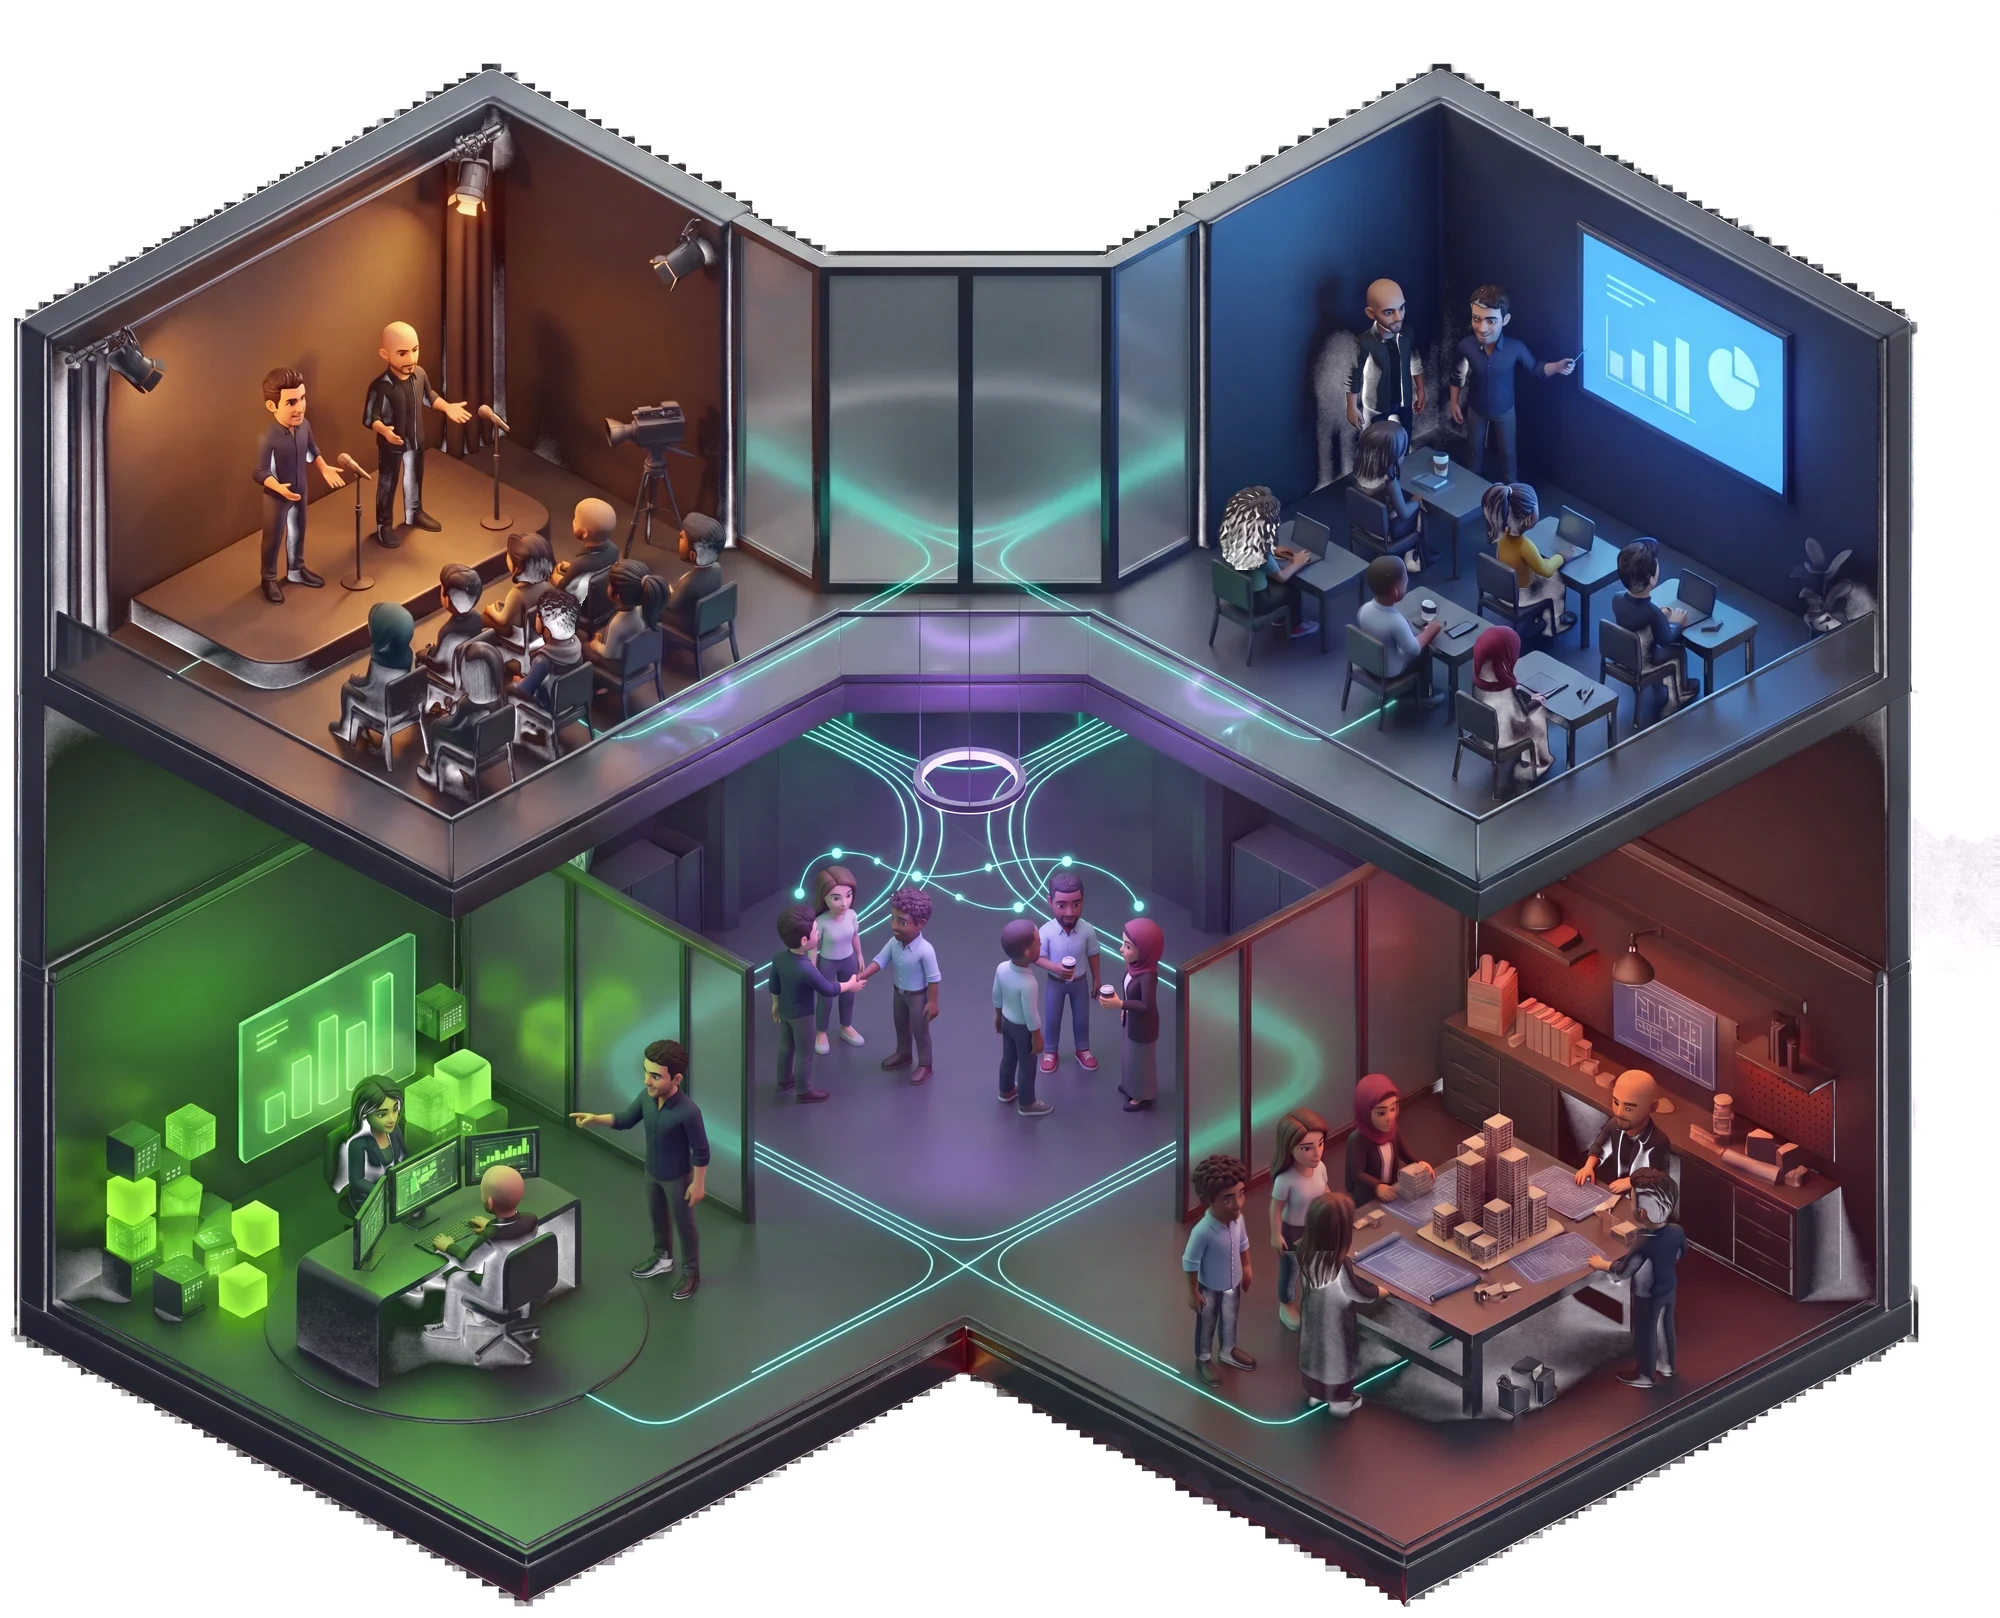
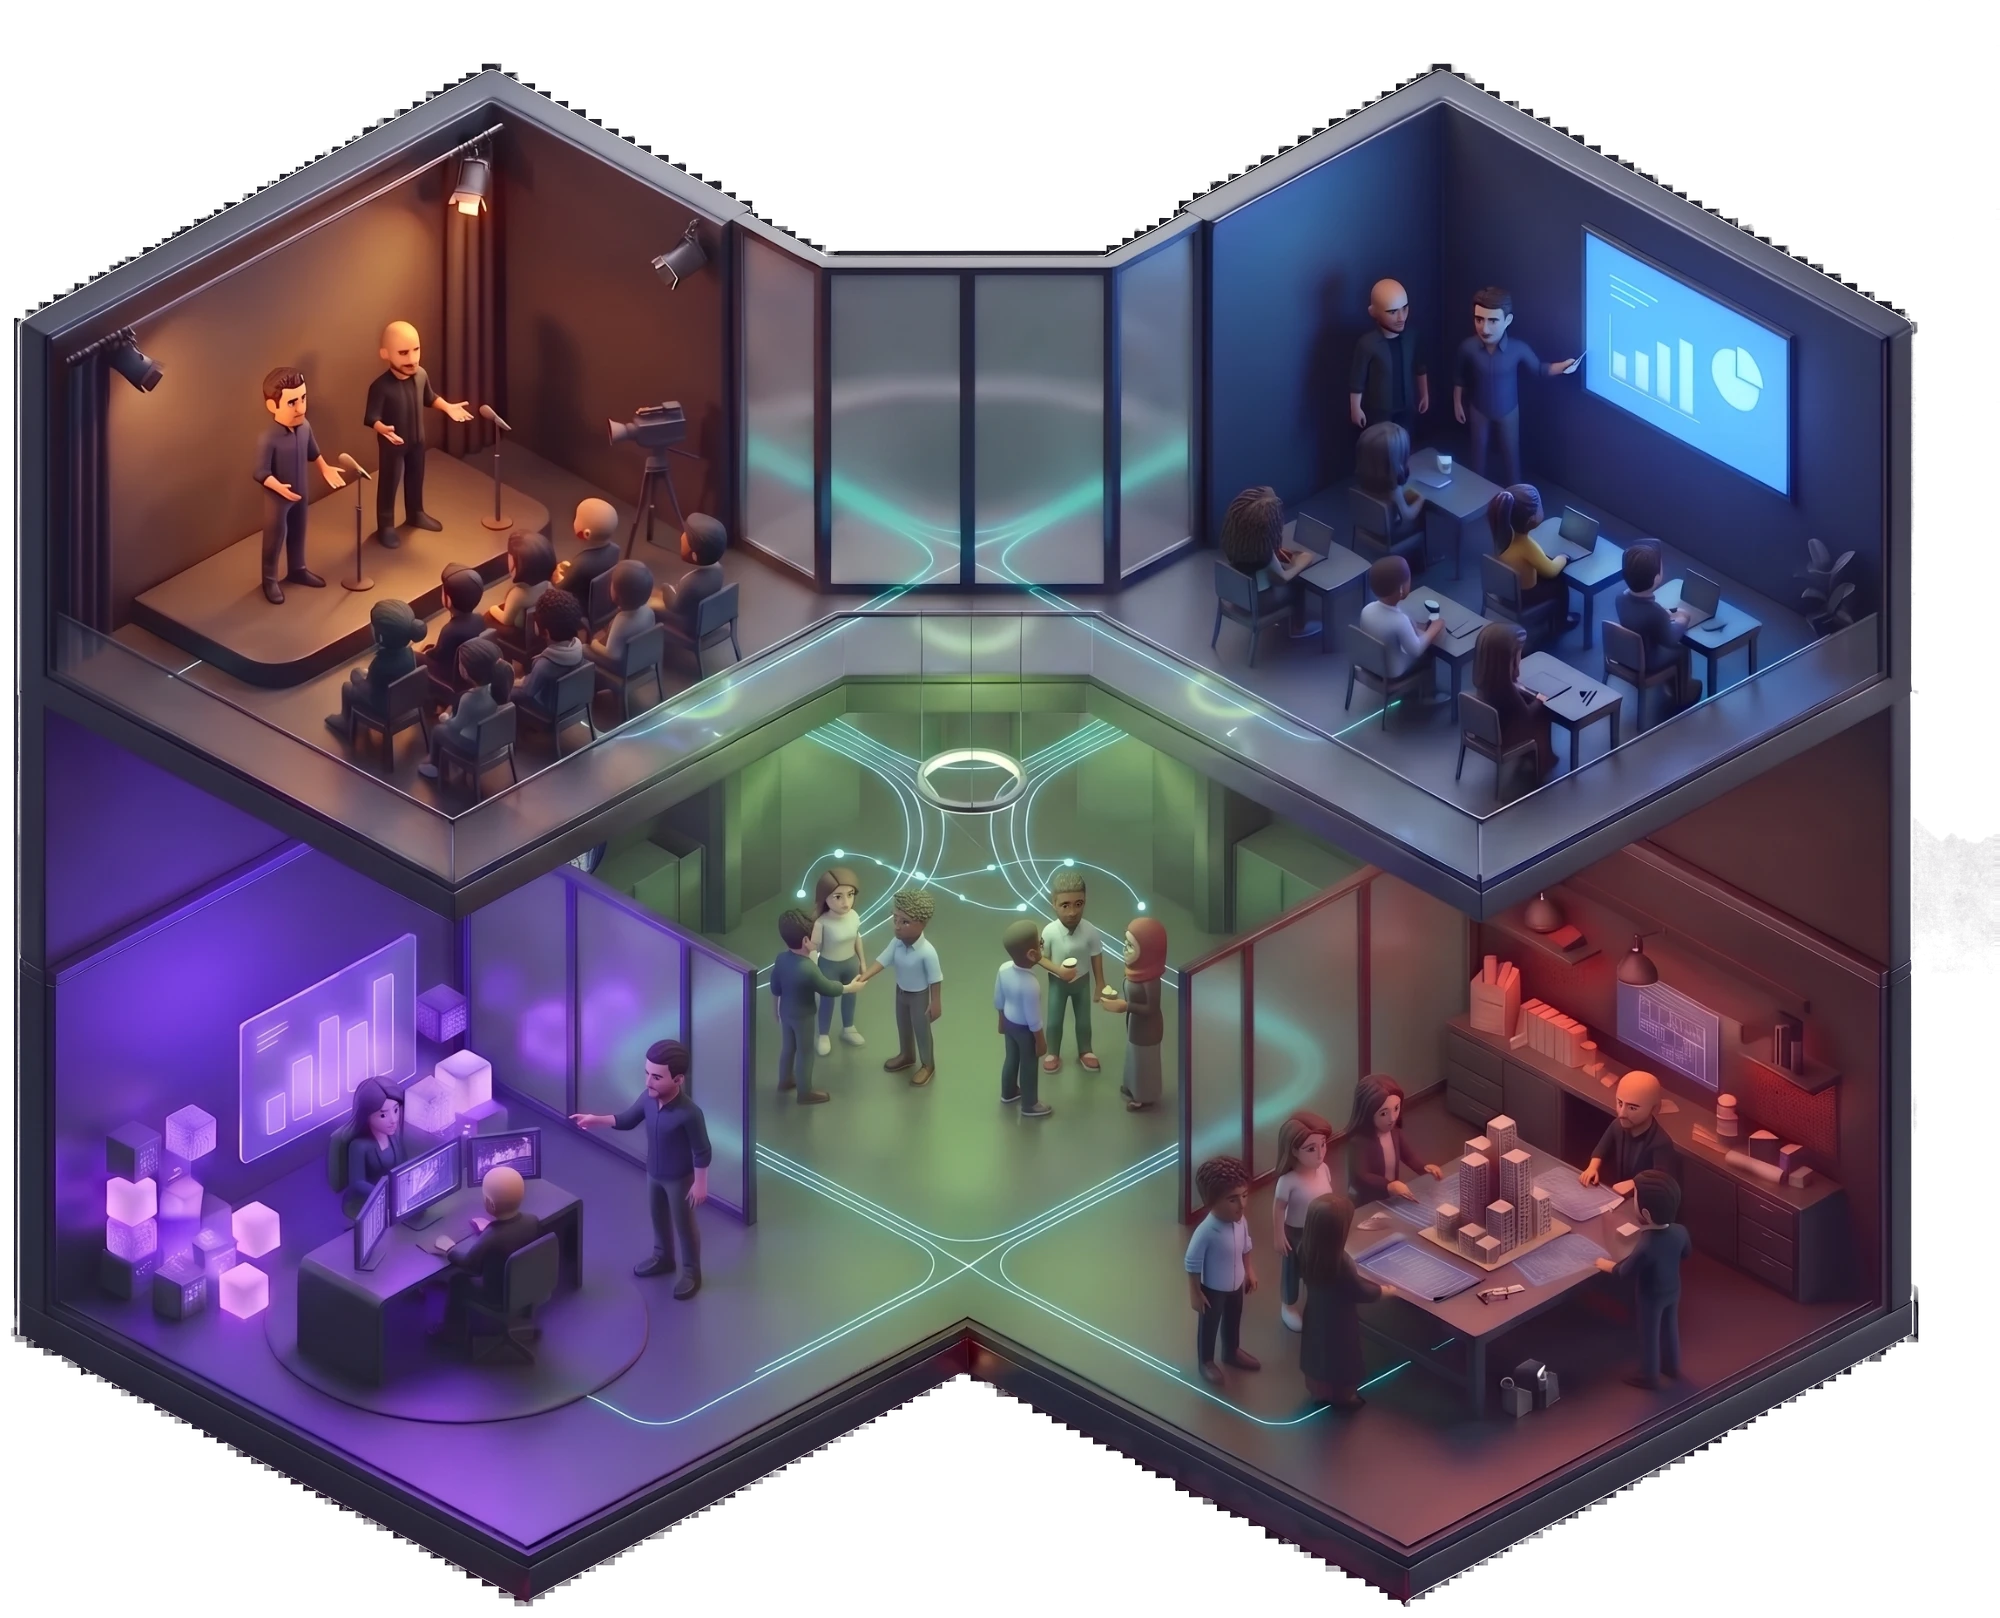
Scenes: Eureka lab violet, BLong green, one hijab
Claude-Session: https://claude.ai/code/session_018RCKuAqLNg43PyQqtjNNDi

diff --git a/src/components/house/scenes.ts b/src/components/house/scenes.ts
@@ -19,7 +19,7 @@ export type Scene = {
 export const SCENES: Partial<Record<SpaceKey, Scene>> = {
   house: {
     src: "/landing/house-blong.webp", width: 2000, height: 1618, plain: true,
-    alt: "The VentureWeavers house: a show stage, a classroom, a workshop and an AI lab, with members networking in the middle, joined by glowing teal threads",
+    alt: "The VentureWeavers house: a show stage, a classroom, a workshop and the Eureka products lab, with members networking in the middle, joined by glowing teal threads",
     flows: [
       [[31.8, 45.3], [42, 39.5], [46, 35.6], [47.7, 33.6]],
       [[64.8, 45.5], [56, 40.2], [51.6, 35.6], [50.2, 34.4]],
@@ -53,7 +53,7 @@ export const SCENES: Partial<Record<SpaceKey, Scene>> = {
     labels: [{ label: "Lead", x: 40.6, y: 38 }, { label: "Mentor", x: 76, y: 48 }],
   },
   quidquo: {
-    src: "/landing/lab.webp", width: 1800, height: 1442, alt: "Eureka: our products lab, with glowing screens",
+    src: "/landing/lab.webp", width: 1800, height: 1442, alt: "Eureka: our products lab under violet light, with glowing screens",
     flows: [[[0, 94.6], [36, 70], [37.6, 68.4], [48, 61.6]]],
     labels: [{ label: "QuidQuo", x: 72, y: 22 }, { label: "Handlr", x: 30, y: 30 }],
   },

diff --git a/CLAUDE.md b/CLAUDE.md
@@ -117,3 +117,4 @@ Add product decisions here as they are made (prices, refund policy, roles, langu
 - House look tweaks (2026-11-25, asked by Ahmed): the morph between spaces replaced by a light slide-and-fade (the scene lags a little, scales to 90% and fades; transform and opacity only, no blur, 3D turn or clipping) because the morph was heavy and glitchy. My space no longer has My communities / My discussions icons (they live in BLong); the floating card is Saved.
 - Eureka (2026-11-26, asked by Ahmed): the QuidQuo space becomes Eureka, our products lab, with two products: QuidQuo (AI for capital formation) and Handlr (AI executive assistant for professionals and businesses). Colours swapped: Eureka violet `#7C5CE0` (tint `#B4A2F5`), BLong green `#8DBF2E` (tint `#B4DD5E`); the internal space key and `qq` tokens stay `quidquo`. Each product has its own stages, build log and waitlist (`product` column on `qq_stages`, `qq_log`, `waitlist`; one entry per member per product; Handlr started with a copy of QuidQuo's stages). Handlr waitlist roles: Professional, Business owner or team, Executive assistant or operations. Member pages `/eureka` (product cards) and `/eureka/[product]` (logo banner, stages, build log, waitlist, `?tab=waitlist`); `/quidquo` redirects there, invite links included. Product config and logos in `src/lib/eureka.ts`; QuidQuo logos in `public/brand/products/quidquo/` (Handlr shows a wordmark until its logo arrives). Admin › Eureka (`/admin/eureka`, product tabs, each with Stages / Build log / Waitlist; access area key stays `quidquo`). The "QuidQuo waitlist" Library level stays QuidQuo's list only. Renamed on the landing page too. Desktop moves between spaces with an eased glide (snap paused while it runs); phones keep the native swipe.
 - BLong scene (2026-11-26, asked by Ahmed): `public/landing/blong.webp` regenerated in AI Studio (Nano Banana Pro, 2K) from the previous one: one woman in a hijab instead of three, lit in BLong green instead of violet; 2000 × 1750, transparent background.
+- House, lab and journey scenes (2026-11-26, asked by Ahmed): `house-blong.webp`, `lab.webp` and `journey-blong.webp` regenerated in AI Studio to match the colour swap (Eureka lab violet, BLong lobby/lounge green) with one woman in a hijab per scene; same sizes and framing, so hotspots and camera stops are unchanged. Transparent backgrounds come from the previous images' outlines.
